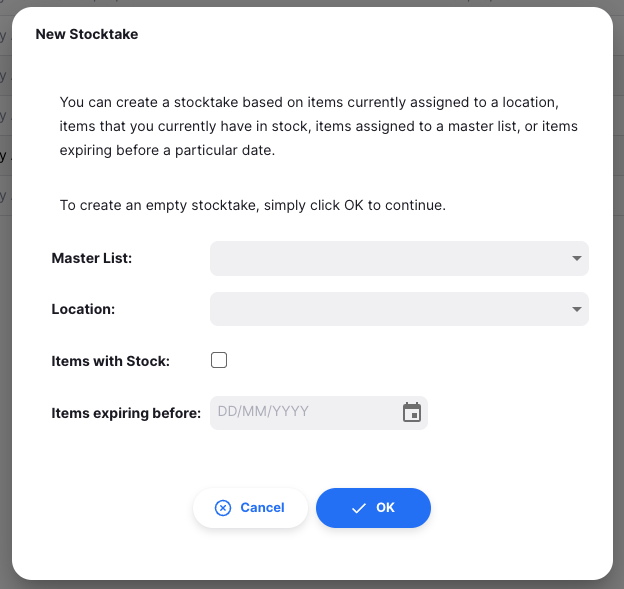
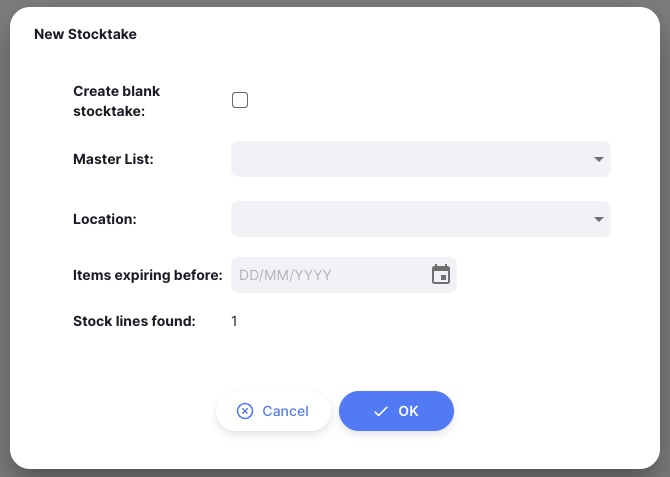
from 6e1ad9c280c938f06cdadf3d6cc45f06dcbd6f11

diff --git a/content/docs/inventory/stocktakes/index.md b/content/docs/inventory/stocktakes/index.md
@@ -69,13 +69,16 @@ Let's start a new stocktake. To do so, tap on the `New Stocktake` button in the 
 
 ![Stocktake: new](images/stocktake_newstocktake.png)
 
-A window appears, where you can opt to create a stocktake based on items in a master list, items in a particular location, items that are in stock, expiring items, or an empty stocktake:
+A "New Stocktake" modal appears.
+
+- Selecting no options will include all stock lines with remaining stock in the system. You may filter the stock lines with remaining stock in the system by master list, location or their expiry date
+- Selecting "Create blank stocktake" will create a stocktake with no lines. You will still be able to manually add individual items in the created stocktake.
 
 ![Stocktake: New modal](images/stocktake_newmodal.png)
 
 Click on OK when you have selected the option you would like.
 
-The stocktake will then be created, and existing stock lines will be used to populate the values for batch, expiry, pack size and snapshot number of packs. The lines show as light blue, and will change to black when a value is entered for the counted quantity.
+The stocktake will then be created and stock lines will be used to populate the values for batch, expiry, pack size and snapshot number of packs. The lines show as light blue, and will change to black when a value is entered for the counted quantity.
 
 ![Stocktake with placeholders](images/stocktake-placeholders.png)
 
